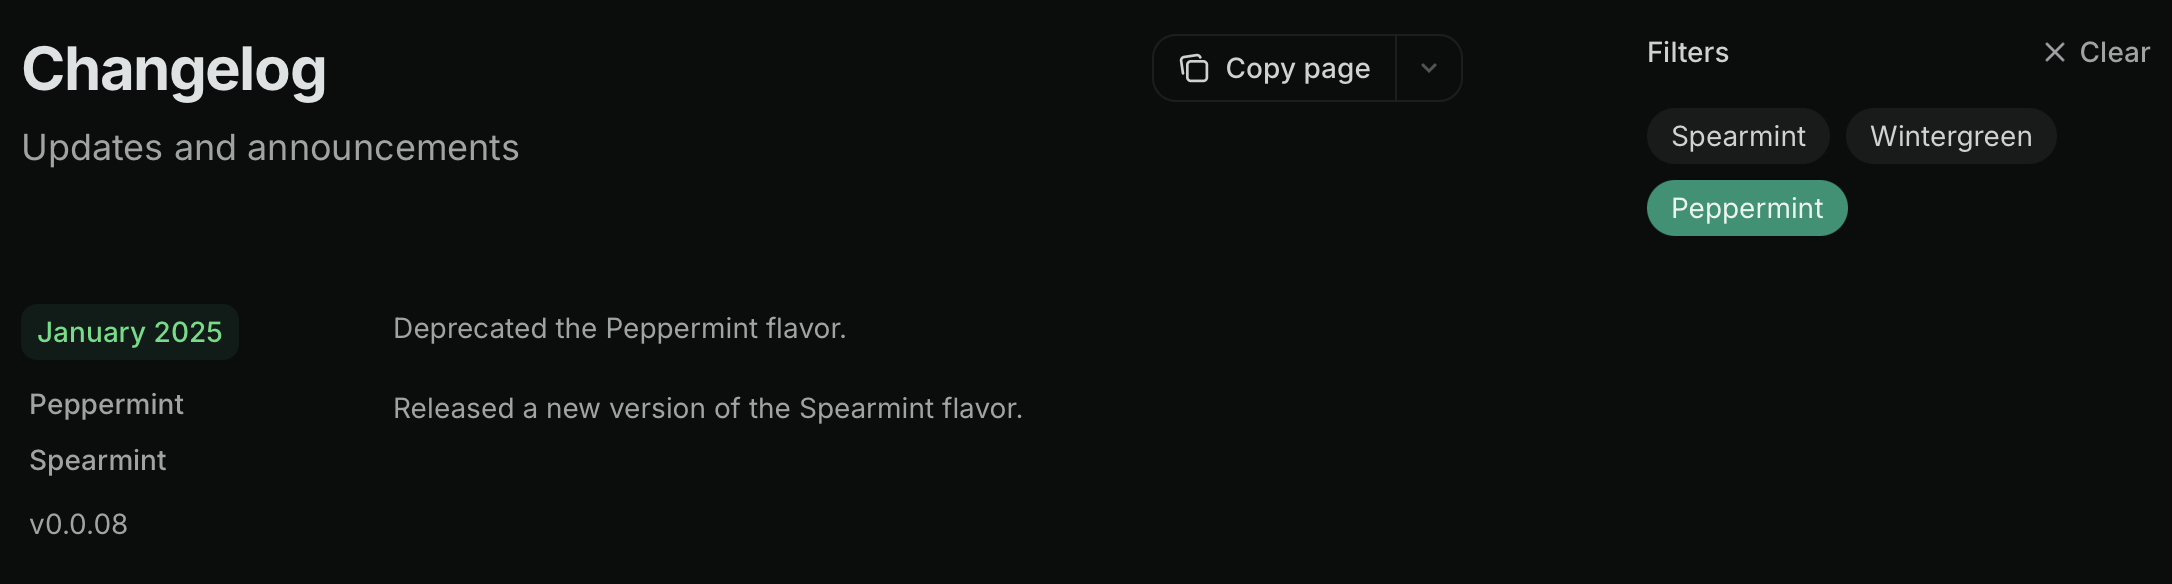
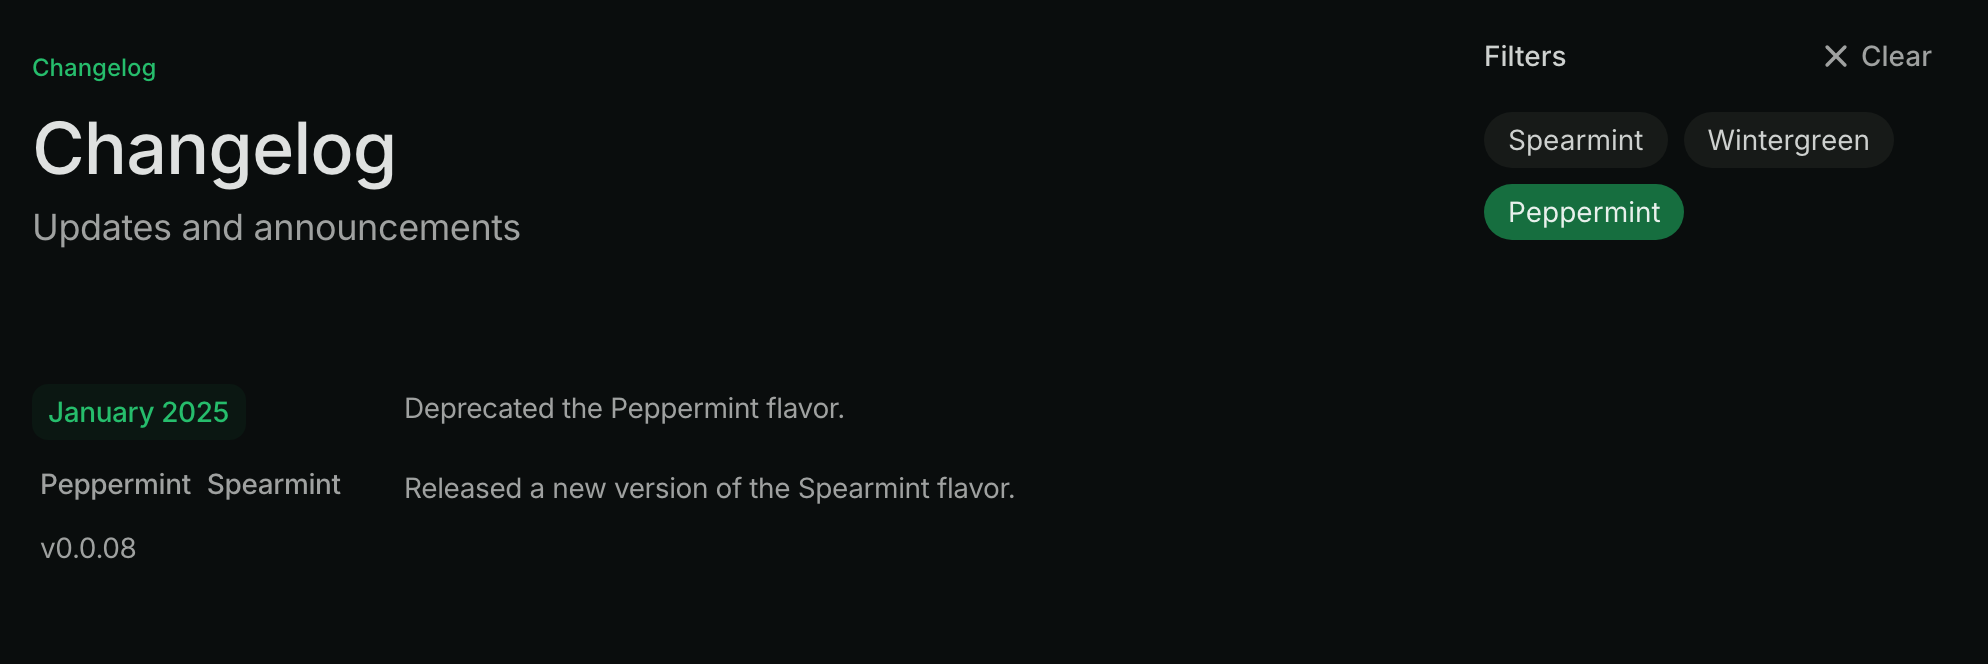
Prototype automated screenshot capture for changelog images
Adds a screenshots/ tool: a fixture Mintlify site, a manifest of shots,
and a Playwright script that renders each shot in light and dark mode
at 2x and writes it over the image in images/. Regenerates the six
changelog screenshots with the current Luma theme.

The fixture is excluded from the published site via .mintignore.

diff --git a/screenshots/README.md b/screenshots/README.md
@@ -1,0 +1,34 @@
+# Screenshot automation (prototype)
+
+Regenerates docs screenshots from code so they can be updated in bulk after UI changes.
+
+- `fixture/` is a small Mintlify site with the content the screenshots show. It's listed in the root `.mintignore`, so it never publishes.
+- `manifest.yaml` lists each screenshot: the page, what to hide, any clicks before capture, and how to crop.
+- `capture.mjs` starts `mint dev` on the fixture, captures every shot in light and dark mode at 2x, and overwrites the images in `images/`. Review the result in the git diff.
+
+## Run it
+
+```bash
+cd screenshots
+npm install
+npx playwright install chromium
+npm run capture
+```
+
+To regenerate one screenshot, pass part of its output path:
+
+```bash
+npm run capture -- changelog-filters
+```
+
+## Add a screenshot
+
+1. Add or edit a page in `fixture/` with the content the screenshot needs. Use sample content, not real product claims.
+2. Add an entry to `manifest.yaml`.
+3. Run the capture and check both themes.
+
+Unchanged UI produces byte-identical images, so only real changes show up in a diff.
+
+## Limits
+
+Covers screenshots of docs sites only. Dashboard screenshots need a signed-in test account with stable data, which this doesn't set up.
